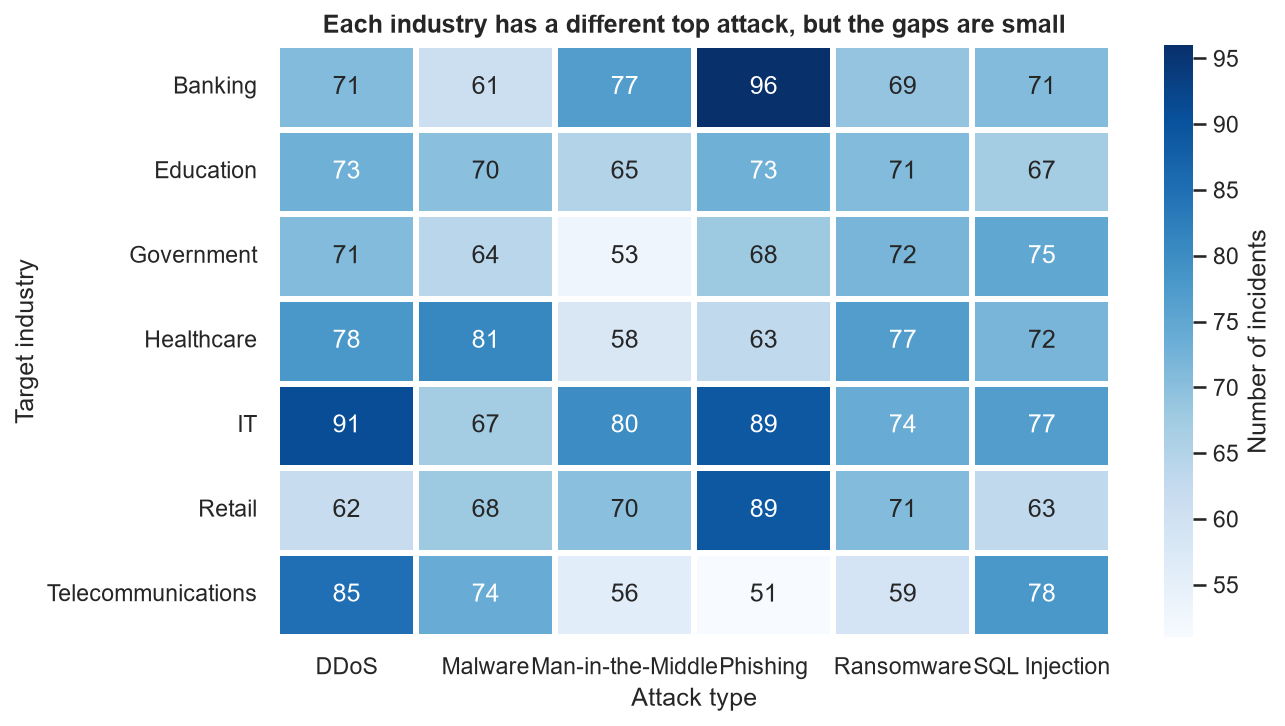
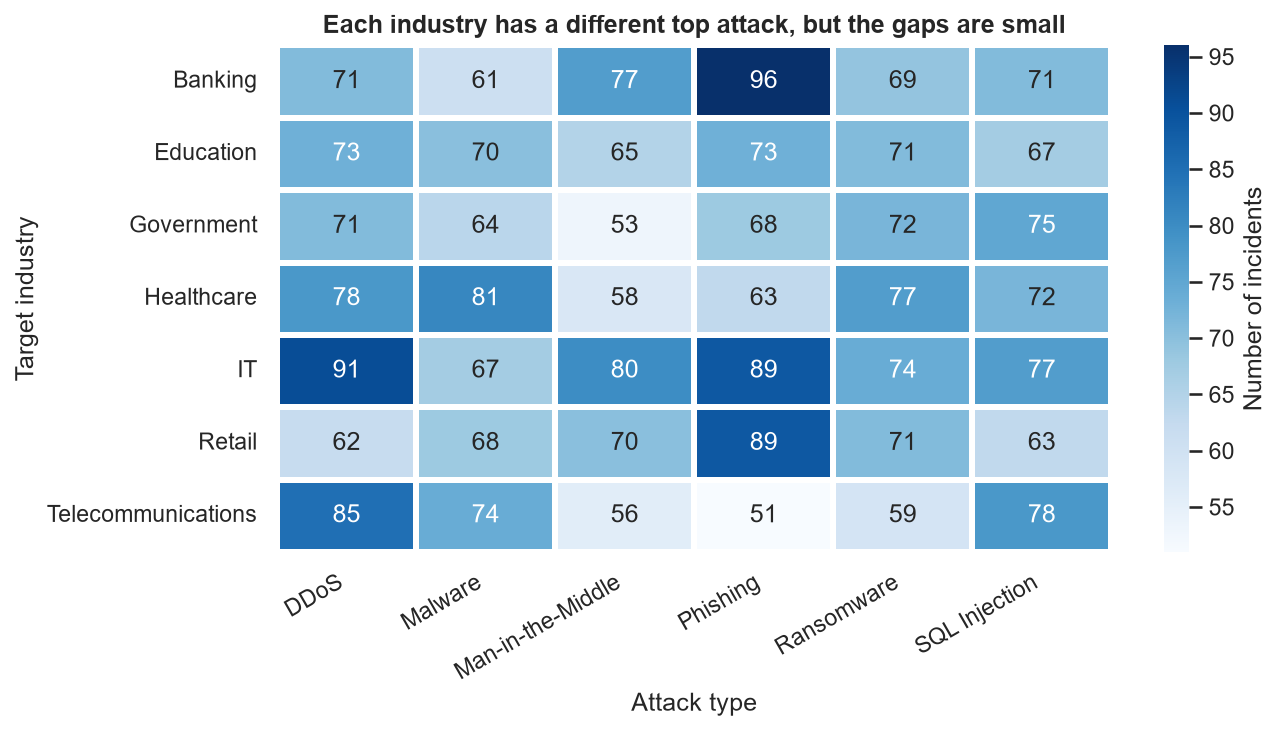
Add README with findings and charts

diff --git a/README.md b/README.md
@@ -1,0 +1,92 @@
+# Global Cybersecurity Threats Analysis (2015–2024)
+
+Exploratory data analysis of 3,000 cybersecurity incidents across 10 countries and 7 industries, using **Python, Pandas, Matplotlib and Seaborn**.
+
+## Problem Statement
+Cyberattacks cost organizations billions every year. This project analyzes a decade of incident data to answer five business questions:
+
+1. How did the number of incidents and total financial loss change from 2015 to 2024?
+2. Which attack types cause the highest average financial loss and affect the most users?
+3. Which industries are attacked most, and what is the most common attack type in each?
+4. Which countries had the largest total financial losses?
+5. Which defense mechanisms are linked to the fastest incident resolution?
+
+## Dataset
+- **Source:** [Global Cybersecurity Threats 2015–2024](https://www.kaggle.com/datasets/atharvasoundankar/global-cybersecurity-threats-2015-2024) on Kaggle
+- **License:** CC0 Public Domain
+- **Size:** 3,000 rows × 10 columns (country, year, attack type, target industry, financial loss, affected users, attack source, vulnerability type, defense mechanism, resolution time)
+- **Note:** The numeric values are almost uniformly distributed, which suggests the dataset is **synthetic**. Findings demonstrate the analysis process rather than real-world conclusions.
+
+## Tools
+- Python 3.14
+- Pandas: data cleaning and analysis
+- Matplotlib & Seaborn: visualization
+- Jupyter Notebook (VS Code)
+- Git & GitHub
+
+## Project Structure
+```
+cybersecurity-threats-analysis/
+├── data/
+│   ├── Global_Cybersecurity_Threats_2015-2024.csv   # raw data
+│   └── cybersecurity_threats_clean.csv              # cleaned data
+├── images/                                          # saved charts
+├── notebooks/
+│   └── 01_cybersecurity_analysis.ipynb              # full analysis
+├── requirements.txt
+└── README.md
+```
+
+## How to Run
+```bash
+git clone https://github.com/iMarwanAbdullah/cybersecurity-threats-analysis.git
+cd cybersecurity-threats-analysis
+python -m venv .venv
+.venv\Scripts\activate        # Windows
+# source .venv/bin/activate   # macOS / Linux
+pip install -r requirements.txt
+```
+Then open `notebooks/01_cybersecurity_analysis.ipynb` in VS Code or Jupyter and run all cells.
+
+## Key Findings
+
+### 1. No long-term trend
+Incidents (263–319 per year) and total losses fluctuated without a clear increase or decrease. Total loss moves with the number of incidents.
+
+![Trend over time](images/q1_trend_over_time.png)
+
+### 2. Attack type barely affects cost
+DDoS is the most frequent and most costly attack on average (52.0M USD), but all six attack types fall within 49–52M USD.
+
+![Attack types](images/q2_attack_types.png)
+
+### 3. Each industry has a different top threat
+Phishing leads in Banking and Retail, DDoS in IT and Telecommunications, Malware in Healthcare, and SQL Injection in Government. IT is the most targeted industry.
+
+![Industry vs attack type](images/q3_industry_attack_heatmap.png)
+
+### 4. The UK lost the most
+The UK had the highest total loss (16.5B USD) and China the lowest (13.7B USD).
+
+![Loss by country](images/q4_loss_by_country.png)
+
+### 5. No defense is clearly faster
+Average resolution time is about 36 hours for every defense mechanism.
+
+![Defense mechanisms](images/q5_defense_resolution.png)
+
+## Recommendations
+- Prioritize defenses based on the most frequent attacks **in your industry**, since losses are similar across attack types.
+- Use a **layered security approach**; no single defense mechanism showed a meaningful advantage.
+- Improve **attack attribution**; some incidents have an "Unknown" source.
+
+## Limitations
+- The dataset appears synthetic, so results should not be treated as real-world evidence.
+- Results show correlation, not causation.
+- Country totals depend on the number of recorded incidents.
+
+## Author
+**Marwan Abdullah**, Computer Information Systems student at IMSIU
+
+- GitHub: [@iMarwanAbdullah](https://github.com/iMarwanAbdullah)
+- LinkedIn: [marwan-alsuhaifi](https://www.linkedin.com/in/marwan-alsuhaifi)
